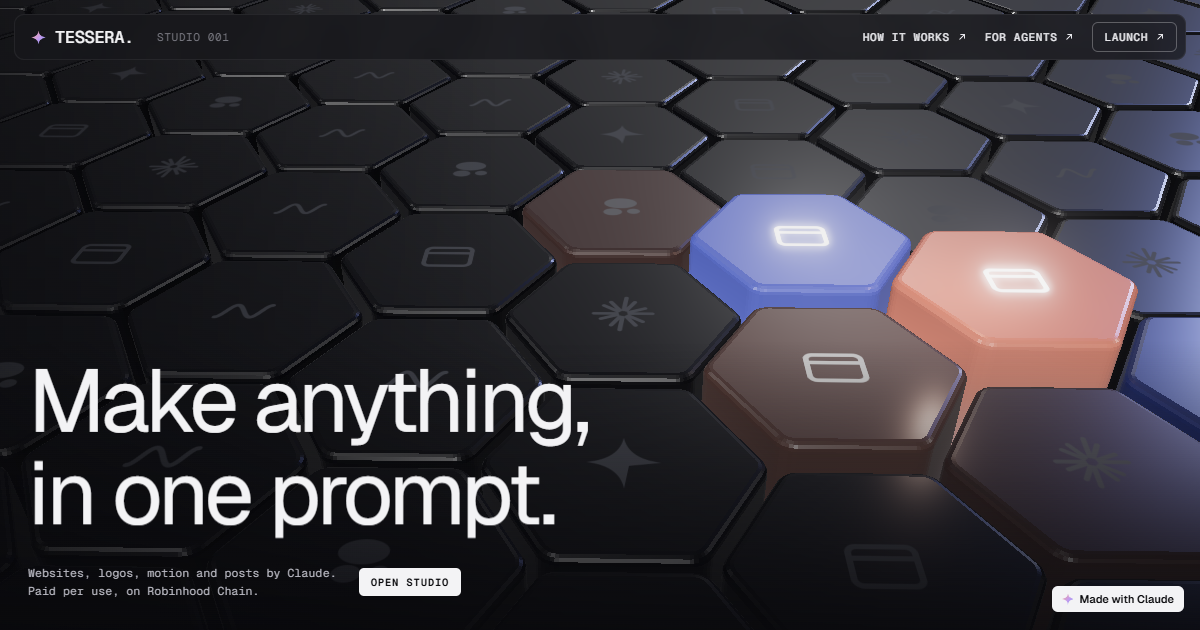
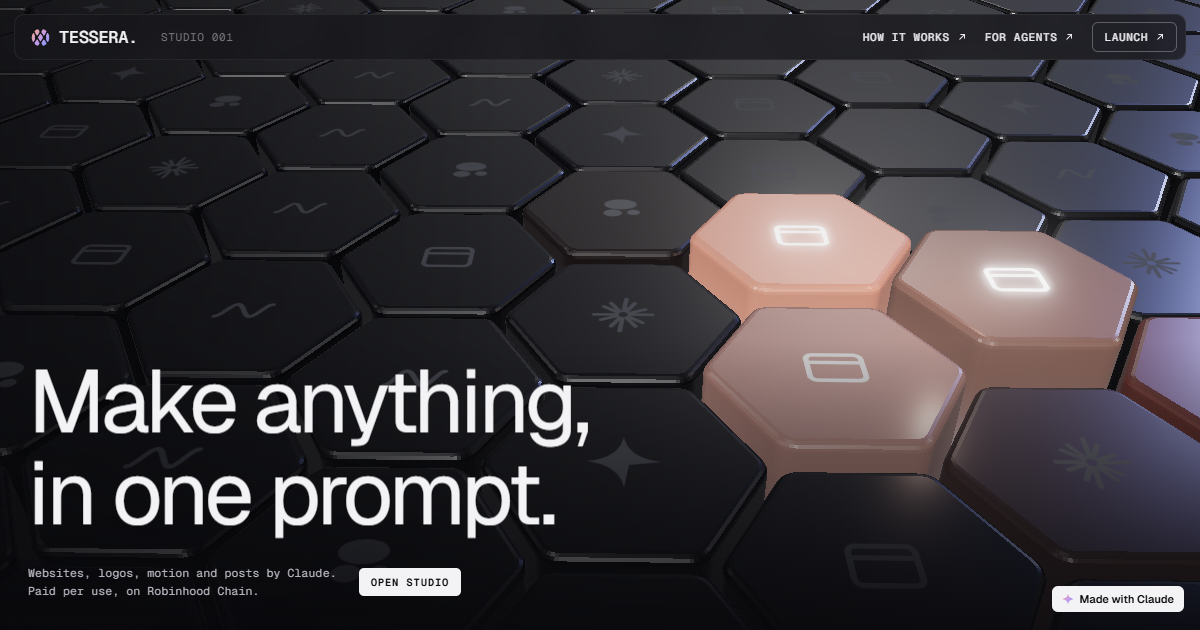
New Tessera mark: woven circle of seven tiles in the site gradient

diff --git a/web/home.js b/web/home.js
@@ -1,6 +1,6 @@
 // Tessera landing, modelled on the reference: a full-screen 3D hex field hero (three.js, hexfield.js) with a thin top bar,
 // a big grotesk headline bottom-left, a small mono line and a white button. Below: manifesto, modes, pay, agents, close.
-import { createHexField } from "./hexfield.js?v=11";
+import { createHexField } from "./hexfield.js?v=12";
 
 const esc = (s) => String(s ?? "").replace(/[&<>"']/g, (c) => ({ "&": "&amp;", "<": "&lt;", ">": "&gt;", '"': "&quot;", "'": "&#39;" }[c]));
 const lines = (t) => t.split("|").map((l) => `<span class="ln"><span>${l}</span></span>`).join("");
@@ -42,7 +42,7 @@ export function home(S) {
   <section class="x-hero" id="xHero">
     <canvas class="x-field" id="xField"></canvas>
     <header class="x-bar">
-      <a class="x-brand" href="#/">${SPARK}<b>${B.toUpperCase()}.</b><span>STUDIO 001</span></a>
+      <a class="x-brand" href="#/"><img src="mark.svg?v=12" alt=""><b>${B.toUpperCase()}.</b><span>STUDIO 001</span></a>
       <nav class="x-right"><a href="#/docs" class="x-link">HOW IT WORKS ${NE}</a><a href="#/agents" class="x-link">FOR AGENTS ${NE}</a><a href="#/studio" class="x-btn">LAUNCH ${NE}</a></nav>
     </header>
     <div class="x-copy">
@@ -148,7 +148,7 @@ function runDemo() {
   const fmt = (n, d = 2) => Number(n).toFixed(d);
   let meta = null, mode = "website", p = 0, codeCache = {}, outFor = "", dead = false;
   const H = (s) => s.replace(/[&<>]/g, (c) => ({ "&": "&amp;", "<": "&lt;", ">": "&gt;" }[c]));
-  fetch("showcase/meta.json?v=11").then((r) => r.json()).then((m) => { if (dead) return; meta = m; prep(); paint(); }).catch(() => {});
+  fetch("showcase/meta.json?v=12").then((r) => r.json()).then((m) => { if (dead) return; meta = m; prep(); paint(); }).catch(() => {});
 
   async function prep() {
     const get = (u) => fetch(u).then((r) => r.text()).catch(() => "");

diff --git a/web/index.html b/web/index.html
@@ -19,18 +19,18 @@
 <meta name="twitter:description" content="Websites, logos, motion and X posts made by Claude. Pay per use in ETH on Robinhood Chain.">
 <meta name="twitter:image" content="__SITE__/og.png">
 <link rel="apple-touch-icon" href="icon-180.png">
-<link rel="icon" href="mark.svg" type="image/svg+xml">
+<link rel="icon" href="mark.svg?v=12" type="image/svg+xml">
 <meta name="theme-color" content="#0b0b0e">
 <link rel="preconnect" href="https://fonts.googleapis.com">
 <link rel="preconnect" href="https://fonts.gstatic.com" crossorigin>
 <link href="https://fonts.googleapis.com/css2?family=Geist:wght@300;400;500;600&family=Geist+Mono:wght@400;500;600&family=Instrument+Serif:ital@0;1&family=Inter+Tight:wght@400;500;600;700&family=JetBrains+Mono:wght@400;500;600&display=swap" rel="stylesheet">
 <link rel="stylesheet" href="vendor/lenis.css">
-<link rel="stylesheet" href="app.css?v=11">
-<link rel="stylesheet" href="home.css?v=11">
+<link rel="stylesheet" href="app.css?v=12">
+<link rel="stylesheet" href="home.css?v=12">
 </head>
 <body>
 <header class="top">
-  <a class="brand" href="#/"><img src="mark.svg" alt=""><span id="brandName">Tessera</span></a>
+  <a class="brand" href="#/"><img src="mark.svg?v=12" alt=""><span id="brandName">Tessera</span></a>
   <nav class="nav" id="nav">
     <a href="#/studio" data-r="studio">Studio</a><a href="#/gallery" data-r="gallery">Gallery</a><a href="#/account" data-r="account">Credits</a><a href="#/agents" data-r="agents">Agents</a><a href="#/docs" data-r="docs">How it works</a>
   </nav>
@@ -48,6 +48,6 @@
 <script src="vendor/gsap.min.js"></script>
 <script src="vendor/ScrollTrigger.min.js"></script>
 <script src="vendor/lenis.min.js"></script>
-<script src="app.js?v=11" type="module"></script>
+<script src="app.js?v=12" type="module"></script>
 </body>
 </html>

diff --git a/web/home.css b/web/home.css
@@ -11,7 +11,7 @@ main.home { --gx: "Geist", "Inter Tight", system-ui, sans-serif; --gm: "Geist Mo
 .x-bar { position: absolute; z-index: 3; top: 14px; left: 14px; right: 14px; height: 46px; display: flex; align-items: center; justify-content: space-between; padding: 0 8px 0 16px;
   border-radius: 10px; background: rgba(22,22,26,.72); border: 1px solid rgba(255,255,255,.06); backdrop-filter: blur(14px); -webkit-backdrop-filter: blur(14px); }
 .x-brand { display: flex; align-items: center; gap: 9px; }
-.x-brand svg { width: 15px; height: 15px; }
+.x-brand svg, .x-brand img { width: 19px; height: 19px; }
 .x-brand b { font: 500 17px var(--gm); letter-spacing: -.02em; }
 .x-brand span { font: 400 11px var(--gm); color: #77777f; letter-spacing: .06em; margin-left: 14px; }
 .x-right { display: flex; align-items: center; gap: 18px; }

diff --git a/web/app.css b/web/app.css
@@ -20,7 +20,7 @@ button { font: inherit; color: inherit; }
 /* the blur sits on a pseudo-element: backdrop-filter on .top itself would trap the fixed mobile nav inside it */
 .top::before { content: ""; position: absolute; inset: 0; z-index: -1; border-radius: inherit; background: rgba(22,22,26,.78); backdrop-filter: blur(14px); -webkit-backdrop-filter: blur(14px); }
 .brand { display: flex; align-items: center; gap: 9px; }
-.brand svg, .brand img { width: 15px; height: 15px; }
+.brand svg, .brand img { width: 19px; height: 19px; }
 .brand span { font: 500 17px var(--mono); letter-spacing: -.02em; text-transform: uppercase; }
 .brand span::after { content: "."; }
 .nav { display: flex; gap: 2px; margin-left: 18px; }

diff --git a/web/app.js b/web/app.js
@@ -57,7 +57,7 @@ async function ensureChain() {
 }
 
 /* ---------------- router ---------------- */
-import { home as homeView, homeCleanup } from "./home.js?v=11";
+import { home as homeView, homeCleanup } from "./home.js?v=12";
 const home = () => homeView(S);
 const VIEWS = { home, studio, gallery, account, agents, docs, terms, privacy };
 function route() {
